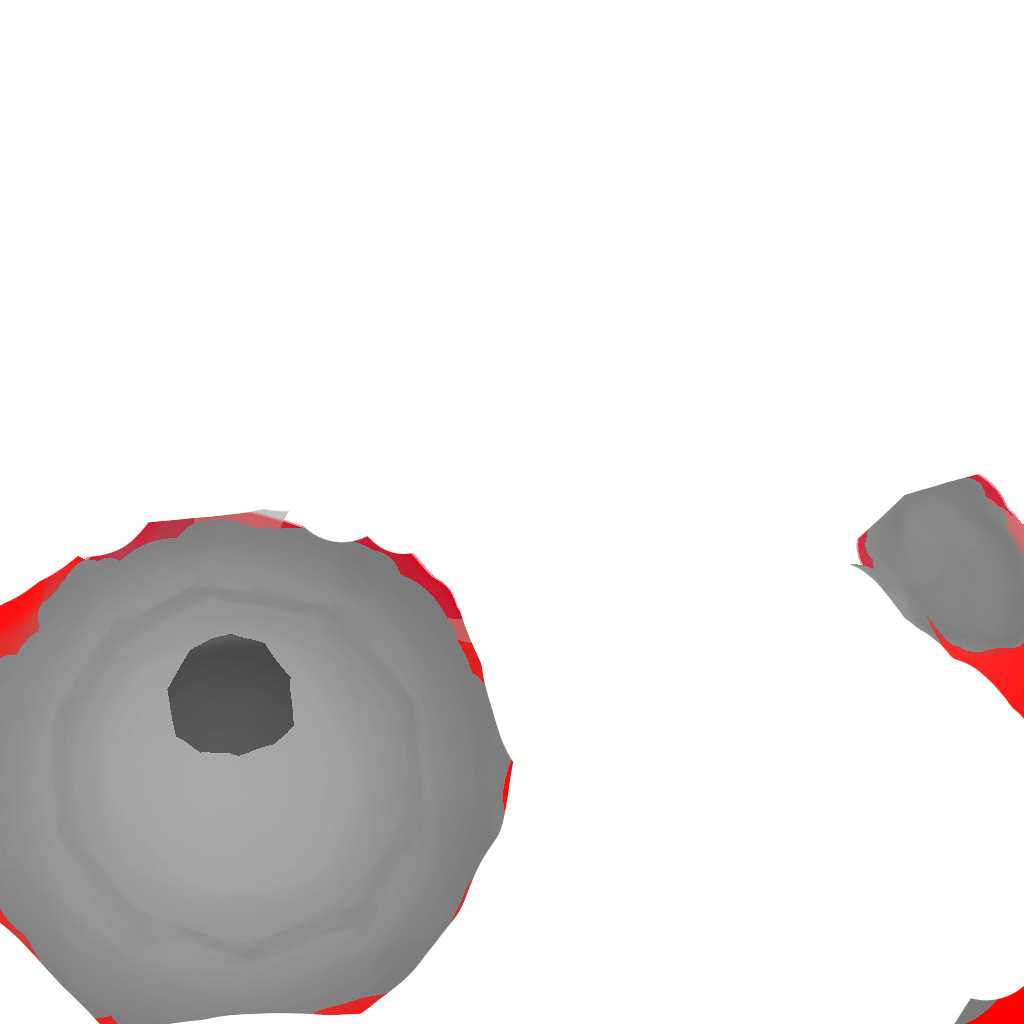
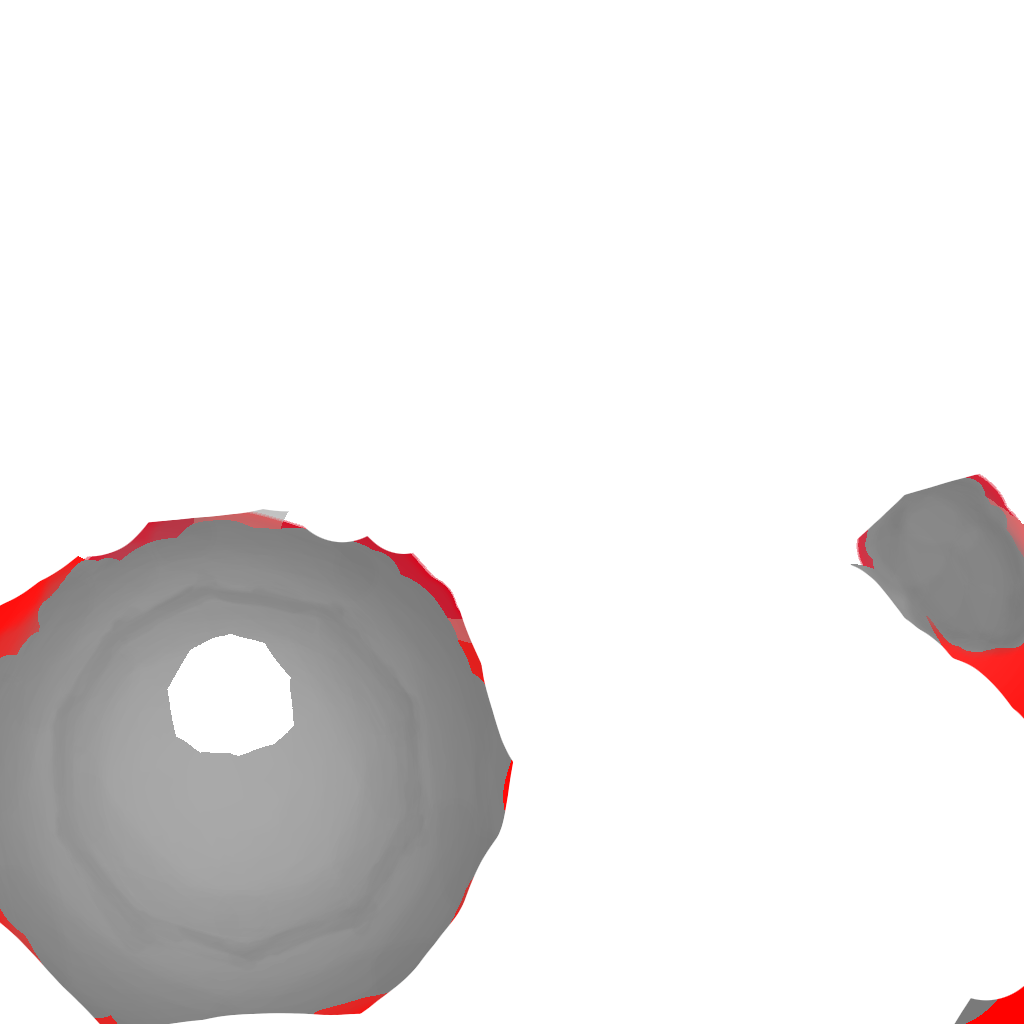
correct material configuration

Changed region(s): [[0.1562, 0.625, 0.3125, 0.75]]

diff --git a/src/Main.cs b/src/Main.cs
@@ -36,7 +36,8 @@ namespace EntertainerBundle
         private Material _ProxyGuestOutfit(Material m)
         {
             Material targetMaterial = Object.Instantiate(_entertainerMaterial);
-            targetMaterial.CopyPropertiesFromMaterial(m);
+            targetMaterial.SetTexture("_MainTex", m.GetTexture("_MainTex"));
+            targetMaterial.SetTexture("_MaskTex", m.GetTexture("_MaskTex"));
             targetMaterial.name = "CustomColorsPeepOutfits";
             return targetMaterial;
         }
